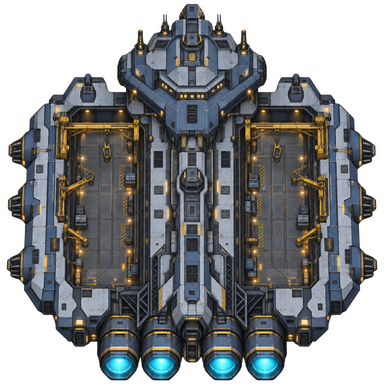
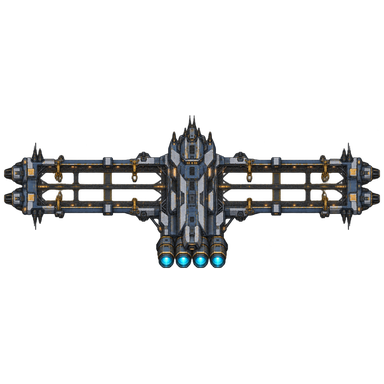
art: redesign juggernaut as winged mobile shipyard

diff --git a/.agents/specs/content-roster.md b/.agents/specs/content-roster.md
@@ -113,7 +113,7 @@
 | rsBattleship | 战列舰 | 3 | 远程主炮 |
 | rsMissileBattleship | 导弹战列舰 | 3 | 导弹饱和攻击 |
 | rsTitan | 泰坦 | 4 | 重型主炮、双联快速对空副炮与 190 像素纳米维修光环；基础维修速度 0.35，不维修建筑。完成护盾科技后可原址升级为悖论泰坦舰，获得护盾、自修、激光近防与强化主副炮；精锐形态随升级保留。普通、悖论及精锐形态共用隐藏的泰坦建造许可；取消返还和阵亡返还需对局验证。 |
-| rsJuggernaut | 主宰 | 4 | 移动船坞与维修；研究后取得一个隐藏建造许可，在造舰排队时消耗、战损后返还，普通与精锐形态合计每队限一艘。取消订单与多船厂并行排队的许可闭环须实测。 |
+| rsJuggernaut | 主宰 | 4 | 移动船坞与维修；原创俯视造型采用横向展开的双翼船坞、中央指挥舰体与开放式建造轨道，突出其移动船坞身份。研究后取得一个隐藏建造许可，在造舰排队时消耗、战损后返还，普通与精锐形态合计每队限一艘。取消订单与多船厂并行排队的许可闭环须实测。 |
 | rsParadoxTitan | 悖论泰坦舰 | 4 | 泰坦原址升级型；16000 船体、4500 护盾、近防与强化舰队维修，继承泰坦每队限额。 |
 | rsColossus | 巨像 | 4 | 专用地图行星武器载体；地爆天星、中子灭杀、安乐天使三个充能动作，队伍许可限一艘。普通地图另提供地爆天星的定点核爆式攻击，以及清除地面部队、建筑中立化的中子灭杀。玩家定点操作、原版建筑转换与完整冷却规则仍须对局验收。 |
 | rsFighter | 护航机 | 2 | 快速防空 |

diff --git a/.agents/spikes/juggernaut-visual.md b/.agents/spikes/juggernaut-visual.md
@@ -1,0 +1,9 @@
+# 主宰视觉参考与原创贴图
+
+> 2026-10-05
+
+《群星》官方 [开发日志 #163](https://store.steampowered.com/news/posts/?appids=281990&enddate=1582200969)将主宰描述为一对巨大的机翼，同时承担前线船坞与维修基地职责。用户提供的另一张参考图强调中央核心与左右狭长船坞组成的横向轮廓；该图只用于理解结构，没有纳入项目素材。
+
+原有 `juggernaut-source.png` 外轮廓接近方形，内部为两块封闭的矩形船坞。新版用图像生成工具创作独立俯视贴图，改为中央指挥舰体、左右开放式建造轨道与细长外翼，保留项目的钢蓝色舰体、琥珀色作业灯和蓝色尾喷风格。交付物为 `art/generated/juggernaut-source.png` 与其游戏尺寸导出 `mod/rusted-stellaris/units/juggernaut.png`、`juggernaut_dead.png`；没有复制参考图像素或官方模型。
+
+静态单位配置与贴图引用检查通过。将新版贴图装入本机游戏 1.15 沙盒后，三张专用地图均进入运行态并找到初始建造者。主宰在实际战斗画面中的缩放辨识度、建造动画及完整对局仍待实测。

diff --git a/.changes/juggernaut-silhouette.md b/.changes/juggernaut-silhouette.md
@@ -1,0 +1,5 @@
+---
+rusted-stellaris: "patch:feat"
+---
+
+重绘主宰为横向双翼移动船坞造型
